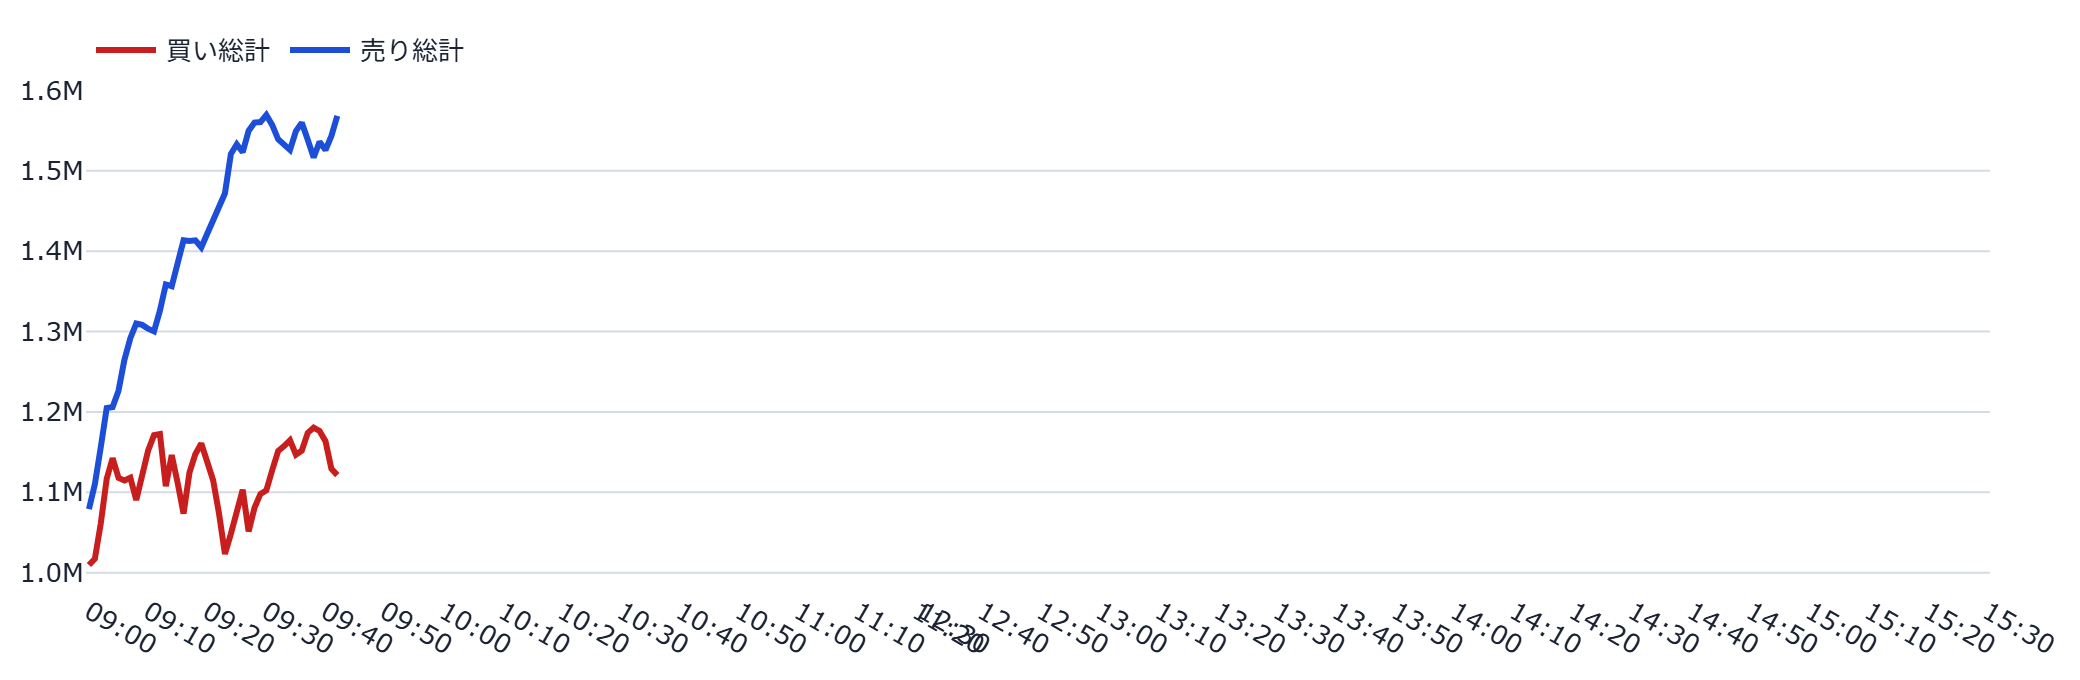
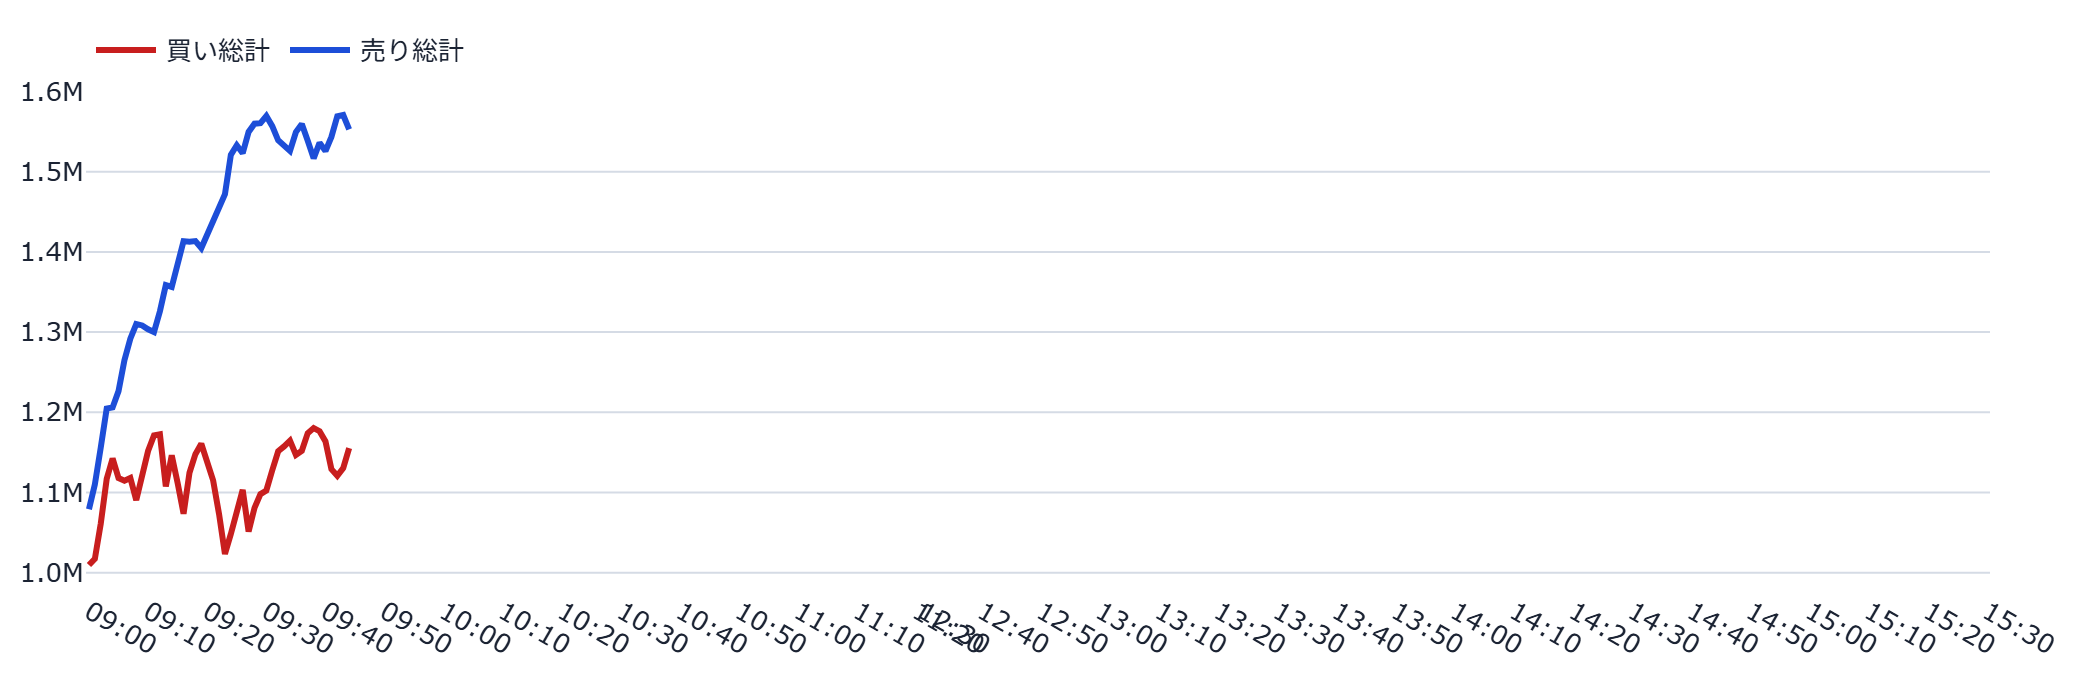
auto: refresh static dashboard (2026-09-03 09:46:12 JST)

diff --git a/docs/index.html b/docs/index.html
@@ -113,8 +113,8 @@
       <div class="panel header">
         <span class="symbol">285A</span>
         <span class="company">キオクシアホールディングス</span>
-        <span class="price">51,180円</span>
-        <span class="chg" style="color:#C81E1E">+0.35%</span>
+        <span class="price">51,280円</span>
+        <span class="chg" style="color:#C81E1E">+0.55%</span>
       </div>
       <p class="caption">更新時刻: 2026-09-03T09:41:30（データは1分間隔で自動生成され、このページも
       60秒毎に自動再読み込みされます）</p>
@@ -197,7 +197,7 @@
       
 
       <h2>🤖 AI考察</h2>
-      <div class='metric-row'><div class='metric-card'><div class='metric-label'>株価</div><div class='metric-value'>51,180円</div><div class='metric-delta'>-470円</div></div><div class='metric-card'><div class='metric-label'>強気比率</div><div class='metric-value'>44.5%</div><div class='metric-delta'>-1.3pt</div></div><div class='metric-card'><div class='metric-label'>弱気比率</div><div class='metric-value'>44.2%</div><div class='metric-delta'>+1.2pt</div></div></div><p class='caption'>前回集計(2026-09-03T09:21:17)との比較</p>
+      <div class='metric-row'><div class='metric-card'><div class='metric-label'>株価</div><div class='metric-value'>51,280円</div><div class='metric-delta'>-370円</div></div><div class='metric-card'><div class='metric-label'>強気比率</div><div class='metric-value'>44.5%</div><div class='metric-delta'>-1.3pt</div></div><div class='metric-card'><div class='metric-label'>弱気比率</div><div class='metric-value'>44.2%</div><div class='metric-delta'>+1.2pt</div></div></div><p class='caption'>前回集計(2026-09-03T09:21:17)との比較</p>
       <div class='ai-box'>キオクシアホールディングス（285A）の掲示板における、前場時点でのセンチメント集計データに基づいた分析を報告します。<br>
 <br>
 現在の価格動向と掲示板の反応を照らし合わせると、非常に拮抗した心理状態がうかがえます。強気比率（44.5%）と弱気比率（44.2%）はほぼ同水準にあり、投資家の間では意見が真っ二つに割れている状況です。直近の数分間の推移を見ると、価格がわずかに下落する一方で投稿数が約246件増加しており、短時間での関心の高まりと同時に、やや弱気寄りの反応が増加している傾向が見て取れます。<br>
@@ -212,7 +212,7 @@
 
       <hr style="border:none;border-top:1px solid var(--border);margin:2rem 0 1rem">
       <p class="caption">⚠ 本情報は掲示板投稿を統計的に集計したものであり、投資助言ではありません。個別の投稿内容は含まれていません。研究・エンタメ用途です。</p>
-      <footer>生成: generate_static_dashboard.py（2026-09-03T09:43:50） /
+      <footer>生成: generate_static_dashboard.py（2026-09-03T09:45:49） /
       画像バックエンド: plotly+kaleido</footer>
     </div>
     <script>(function(){var url="https://script.google.com/macros/s/AKfycbwgSSGQ2n56ohmIYKlNDA1Xe3D8hd3GJbD0U90L4DGtXdb8pqrPokNMHJWjvN1__7bE/exec";var KEY='bbs_visit_counted';var already=sessionStorage.getItem(KEY);var action=already?'read':'hit';var ctrl=(typeof AbortController!=='undefined')?new AbortController():null;var timer=ctrl?setTimeout(function(){ctrl.abort();},5000):null;fetch(url+'?action='+action,{signal:ctrl?ctrl.signal:undefined}).then(function(r){if(timer)clearTimeout(timer);return r.json();}).then(function(data){if(!already)sessionStorage.setItem(KEY,'1');if(data&&typeof data.count==='number'){var el=document.getElementById('visit-count-badge');if(el){el.textContent='\u{1F440} \u7d2f\u8a08\u95b2\u89a7\u6570: '+data.count.toLocaleString();el.style.display='';}}}).catch(function(e){if(timer)clearTimeout(timer);console.warn('visit counter fetch failed (fail-soft):',e);});})();</script><script>(function(){var url="https://script.google.com/macros/s/AKfycbwgSSGQ2n56ohmIYKlNDA1Xe3D8hd3GJbD0U90L4DGtXdb8pqrPokNMHJWjvN1__7bE/exec";var KEY='bbs_liked';var btn=document.getElementById('like-button');var label=document.getElementById('like-count-label');if(!btn||!label)return;function renderLiked(count){btn.disabled=true;btn.style.cursor='default';btn.style.opacity='0.6';btn.textContent='\u2705';label.textContent="\u3044\u3044\u306d\u3057\u307e\u3057\u305f\uff01"+(typeof count==='number'?"\uff08\u7d2f\u8a08 "+count.toLocaleString()+" \u3044\u3044\u306d\uff09":'');}if(localStorage.getItem(KEY)){renderLiked(null);}btn.addEventListener('click',function(){if(localStorage.getItem(KEY))return;btn.disabled=true;var ctrl=(typeof AbortController!=='undefined')?new AbortController():null;var timer=ctrl?setTimeout(function(){ctrl.abort();},5000):null;fetch(url+'?action=like_hit',{signal:ctrl?ctrl.signal:undefined}).then(function(r){if(timer)clearTimeout(timer);return r.json();}).then(function(data){localStorage.setItem(KEY,'1');renderLiked(data&&typeof data.count==='number'?data.count:null);}).catch(function(e){if(timer)clearTimeout(timer);btn.disabled=false;console.warn('like button fetch failed (fail-soft):',e);});});})();</script></body></html>
